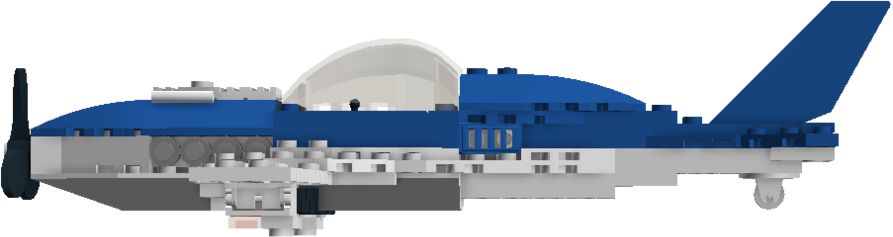
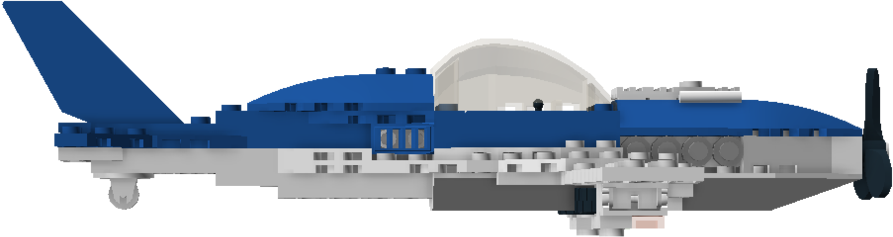
Rotating planes

diff --git a/browserjs/client.js b/browserjs/client.js
@@ -4,7 +4,7 @@ let ctx;
 let socket;
 let username;
 
-const planeScale = 10;
+const planeScale = 0.1;
 const cSizeX = 800;
 const cSizeY = 600;
 const cMarginX = 200;
@@ -58,7 +58,7 @@ document.addEventListener('keyup', function(event) {
 });
 
 function prepareImages(imagesLoadedCB){
-    let images = ['kenobi.png', 'background.jpg', 'plane1.png'];
+    let images = ['kenobi.png', 'background.jpg', 'plane1.png', 'plane2.png'];
     let promiseArray = images.map(function(imgurl){
     let prom = new Promise(function(resolve,reject){
         let img = new Image();
@@ -115,17 +115,37 @@ function onUpdate(state){
         viewPosY = 0;
     if (viewPosY > bSizeY - cSizeY)
         viewPosY = bSizeY - cSizeY;
-    
     ctx.drawImage(loadedImages['background.jpg'], -viewPosX, -viewPosY);
     for (let id in state) {
         let player = state[id];
         console.log(`${player.x}, ${player.y}, ${player.name}`);
-        ctx.drawImage(loadedImages['plane1.png'], player.x - viewPosX - loadedImages['plane1.png'].width / planeScale, player.y - viewPosY - loadedImages['plane1.png'].height / planeScale, loadedImages['plane1.png'].width / planeScale, loadedImages['plane1.png'].height / planeScale);
-        console.log(loadedImages['plane1.png'].width);
+
         ctx.font = "15px Comic Sans MS";
         ctx.fillStyle = "red";
         ctx.textAlign = "center";
-        ctx.fillText('['+player.name+']', player.x - viewPosX - loadedImages['plane1.png'].width / (2 * planeScale), player.y - viewPosY - (loadedImages['plane1.png'].height) / (2 * planeScale) + nickOffset); 
+        ctx.fillText('['+player.name+']', player.x - viewPosX, player.y - viewPosY + nickOffset); 
+        if (Math.abs(player.angle + Math.PI / 2) % (Math.PI * 2) > Math.PI)
+            if (player.angle < -Math.PI / 2)
+                img = loadedImages['plane1.png'];
+            else
+                img = loadedImages['plane2.png'];
+        else
+            if (player.angle < -Math.PI / 2)
+                img = loadedImages['plane2.png'];
+            else
+                img = loadedImages['plane1.png'];
+        drawImage(img,
+                player.x - viewPosX,
+                player.y - viewPosY,
+                planeScale,
+                player.angle);
+
+        console.log('Rotation: ' + player.angle);
+        // to draw center
+        // ctx.fillStyle = 'green';
+        // ctx.beginPath();
+        // ctx.arc(player.x - viewPosX, player.y - viewPosY, 5, 0, 2 * Math.PI);
+        // ctx.fill();
     }
 }
 
@@ -156,3 +176,11 @@ function onResourcesLoaded(){
        username = data;
     });
 }
+
+function drawImage(image, x, y, scale, rotation) {
+    ctx.setTransform(scale, 0, 0, scale, x, y); // sets scale and origin
+    ctx.rotate(rotation);
+    ctx.drawImage(image, -image.width / 2, -image.height / 2);
+
+    ctx.setTransform(1, 0, 0, 1, 0, 0); 
+} 
